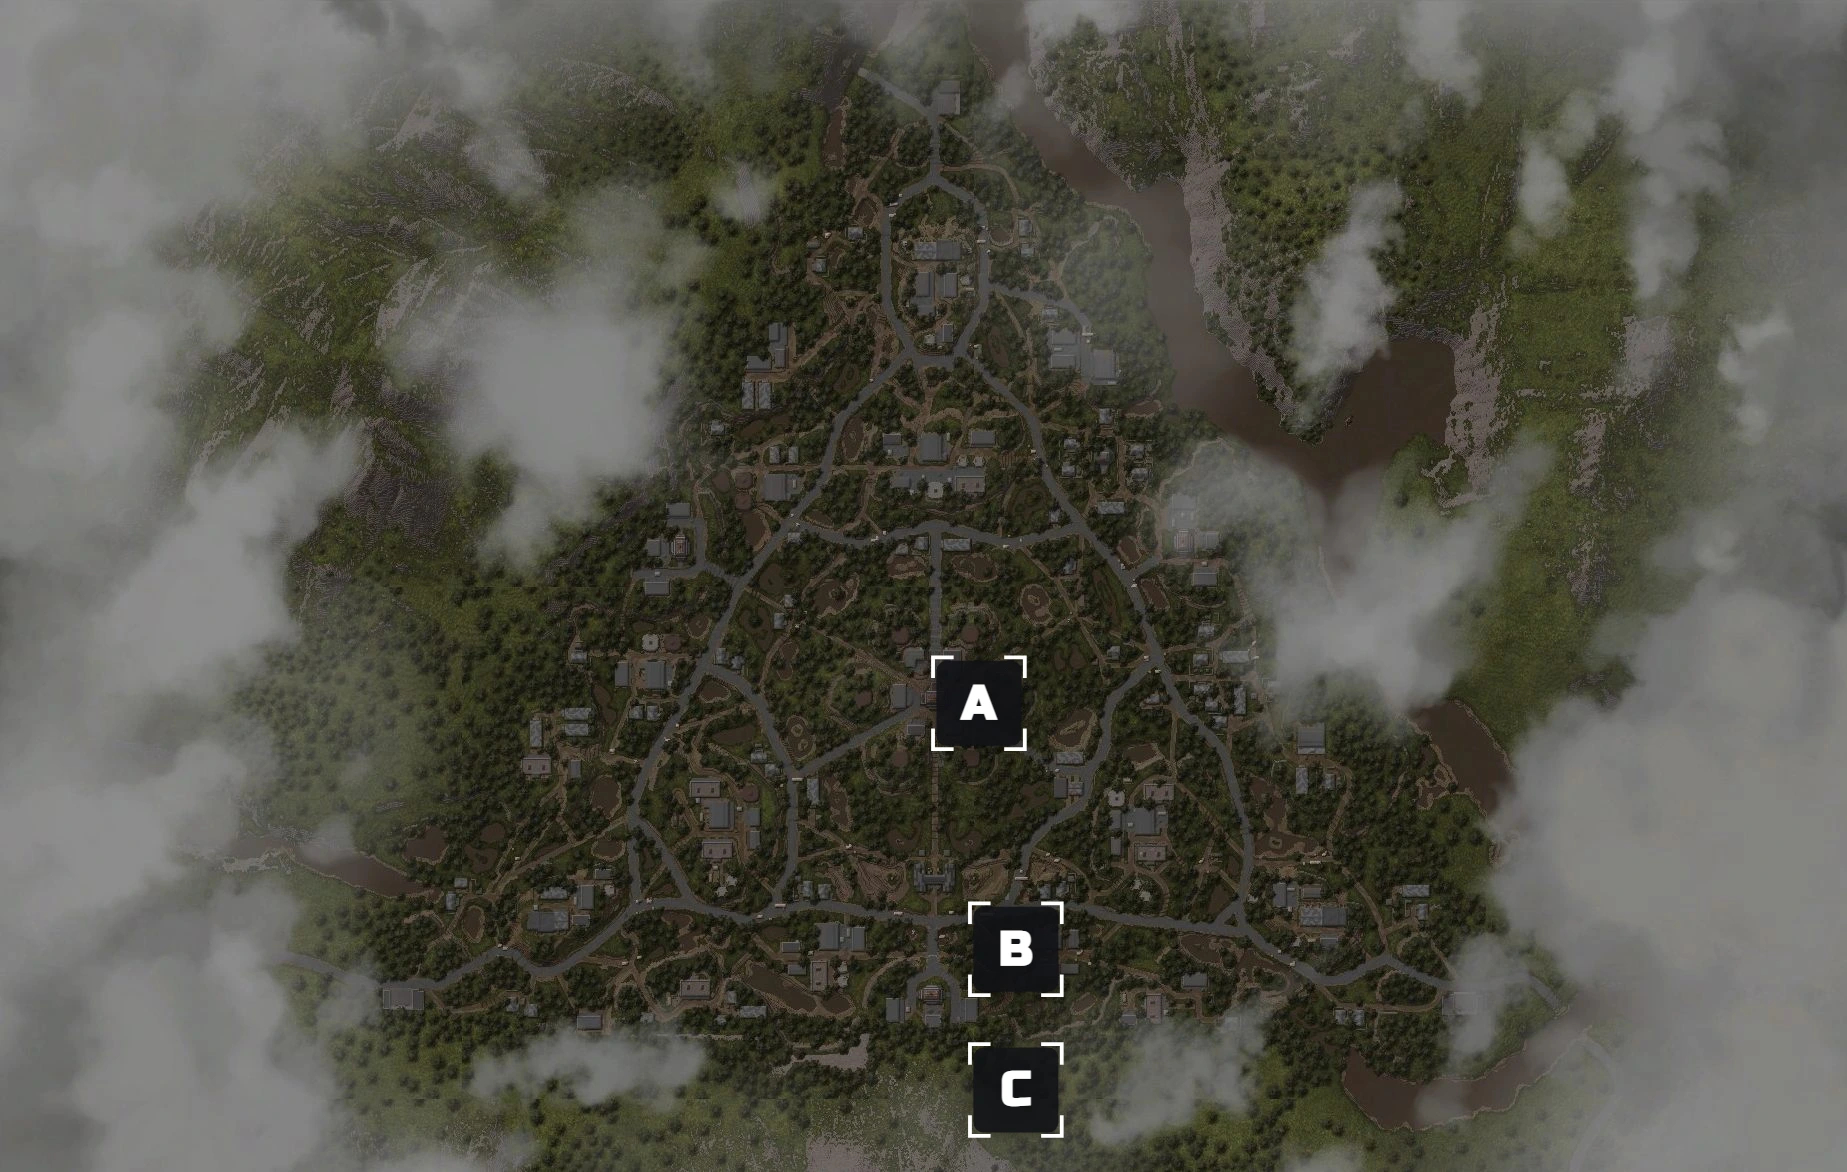
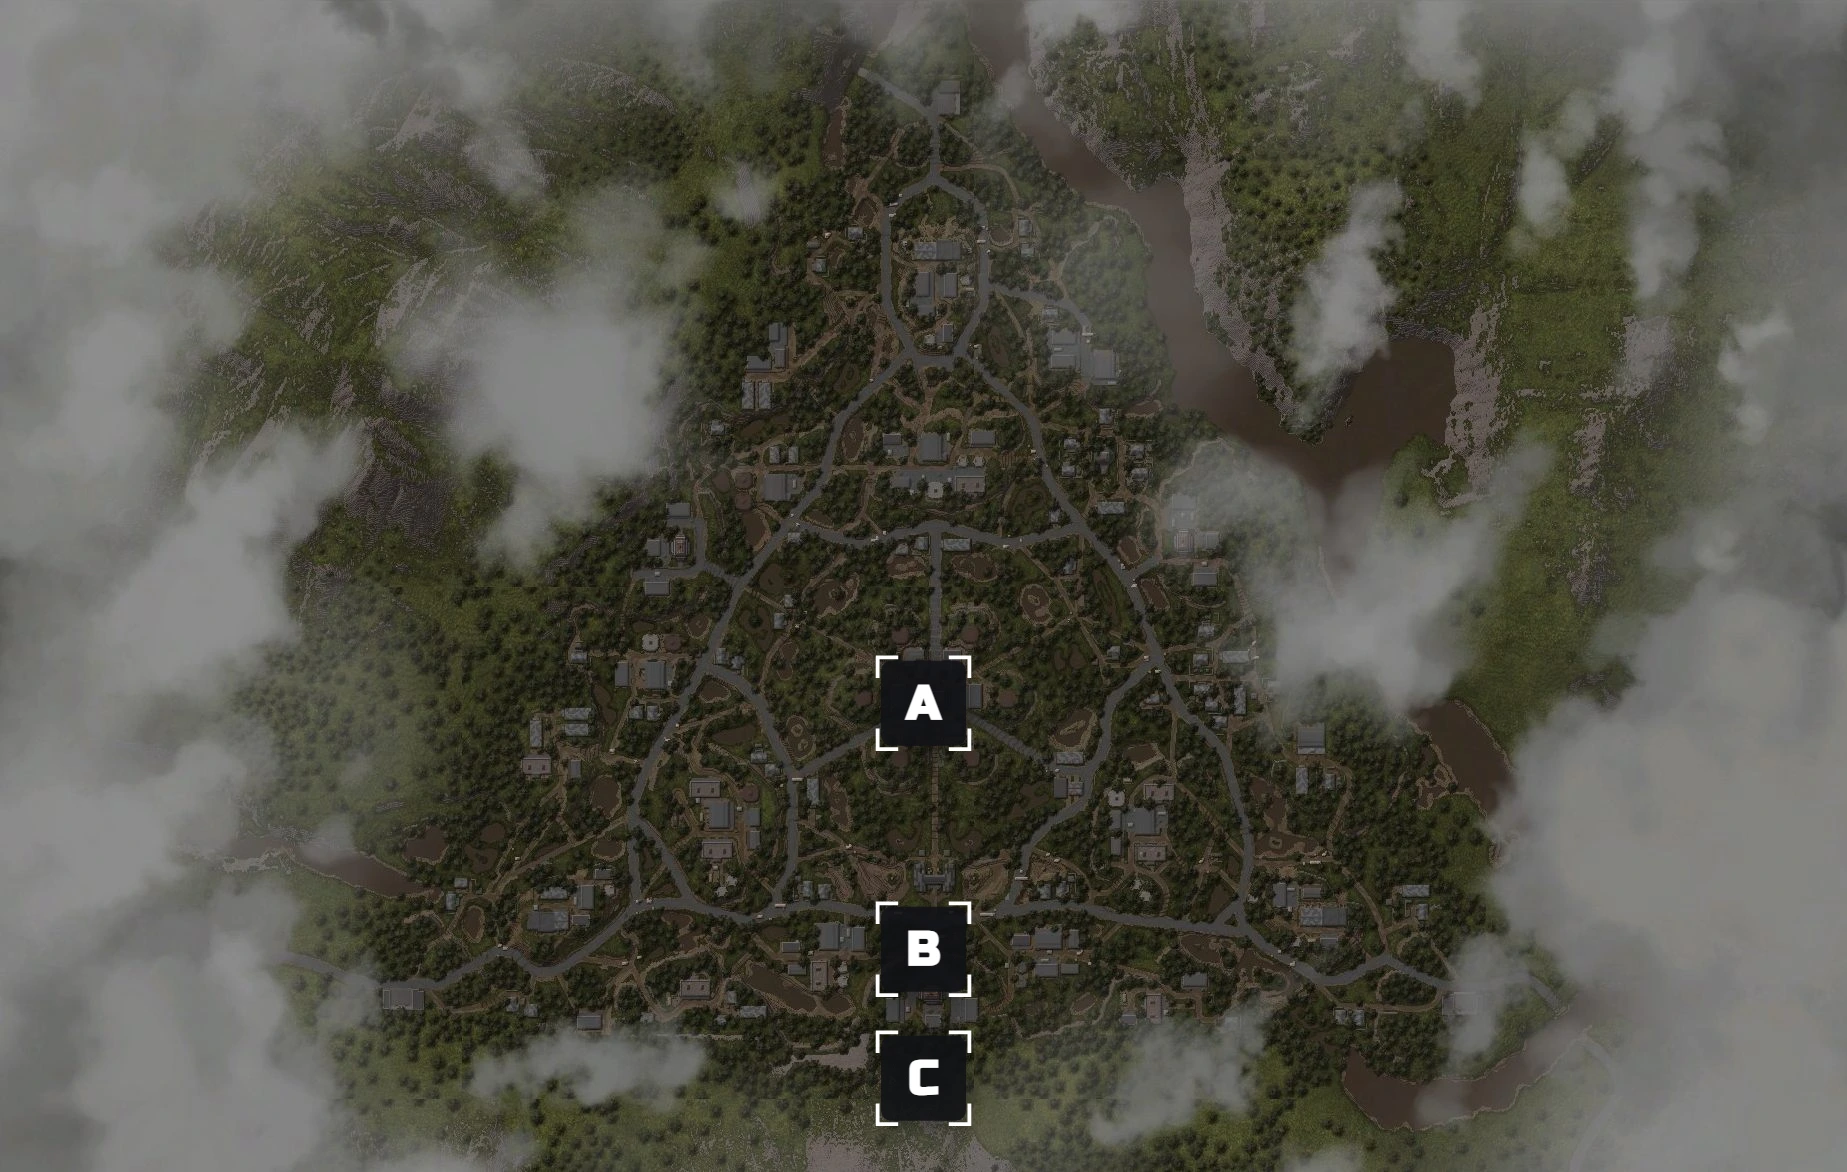
fix: remove brawl maps, recenter Hvoiny and Nizina capture points

Changed region(s): [[0.4629, 0.7679, 0.5864, 0.9829], [0.4629, 0.5529, 0.5555, 0.6451]]

diff --git a/index.html b/index.html
@@ -2380,13 +2380,9 @@ const TAC_MAPS = {
   berdovka: { name: 'Малая Бердовка', group: 'tour', file: 'tactics/berdovka.jpg', capsFile: 'tactics/berdovka_caps.webp', w: 1615, h: 1070,
     caps: [[0.364, 0.533], [0.483, 0.525], [0.437, 0.332], [0.591, 0.407], [0.587, 0.640], [0.445, 0.699]] },
   hvoiny: { name: 'Хвойный', group: 'tour', file: 'tactics/hvoiny.jpg', capsFile: 'tactics/hvoiny_caps.webp', w: 1297, h: 991,
-    caps: [[0.316, 0.560], [0.493, 0.555], [0.675, 0.560]] },
+    caps: [[0.300, 0.560], [0.493, 0.545], [0.690, 0.560]] },
   nizina: { name: 'Низина', group: 'tour', file: 'tactics/nizina.jpg', capsFile: 'tactics/nizina_caps.webp', w: 1847, h: 1172,
-    caps: [[0.53, 0.60], [0.55, 0.81], [0.55, 0.93]] },
-  kvartaly: { name: 'Кварталы', group: 'brawl', file: 'tactics/kvartaly_caps.webp', capsFile: 'tactics/kvartaly_caps.webp', w: 1080, h: 980,
-    caps: [[0.255, 0.505], [0.404, 0.258], [0.403, 0.746], [0.501, 0.505], [0.600, 0.258], [0.606, 0.746], [0.744, 0.505]] },
-  roza: { name: 'Роза ветров', group: 'brawl', file: 'tactics/roza_caps.webp', capsFile: 'tactics/roza_caps.webp', w: 1080, h: 980,
-    caps: [[0.411, 0.430], [0.411, 0.635], [0.607, 0.430], [0.607, 0.635], [0.505, 0.115], [0.887, 0.520], [0.130, 0.520], [0.505, 0.932], [0.505, 0.531]] }
+    caps: [[0.50, 0.60], [0.50, 0.81], [0.50, 0.92]] }
 };
 const TAC_COLORS = [['#ff2d55', 'красный'], ['#ff8a3d', 'оранжевый'], ['#ffd23f', 'жёлтый'], ['#2ee66b', 'зелёный'],
   ['#29d3ff', 'голубой'], ['#b47cff', 'фиолетовый'], ['#ffffff', 'белый'], ['#0b1020', 'чёрный']];
@@ -2424,8 +2420,8 @@ const TAC_SIDE = { ally: ['Свой', '#2f9bff'], enemy: ['Враг', '#ff3b61']
 const TAC = { map: 'berdovka', tool: 'brush', color: '#ff2d55', size: 4, visible: true, zoom: 1, px: 0, py: 0, stamp: 'tent', side: 'ally', capPlacing: false, showCaps: true };
 let TAC_PLAN = null, TAC_SAVE = 0, TAC_RESIZE = null;
 let TAC_CHAN = null, TAC_CURSORS = {}, TAC_LIVE = {}, TAC_REMOTE_INIT = false, TAC_LAST_CURSOR = 0, TAC_LAST_LIVE = 0;
-const TAC_GROUPS = { tour: true, brawl: true };
-const TAC_GROUP_LABEL = { tour: 'Турниры и захваты', brawl: 'Потасовки' };
+const TAC_GROUPS = { tour: true };
+const TAC_GROUP_LABEL = { tour: 'Турниры и захваты' };
 let TAC_REDO = [], TAC_PAN_PREV = 'brush', TAC_ONLINE = {}, TAC_LAST_EDIT = null;
 const tacNick = () => ((user && (user.user_metadata || {}).nick) || (user && user.user_metadata && user.user_metadata.name) || (user && user.email || 'Игрок')).split('@')[0].slice(0, 24);
 const saveLocalPlan = () => {
